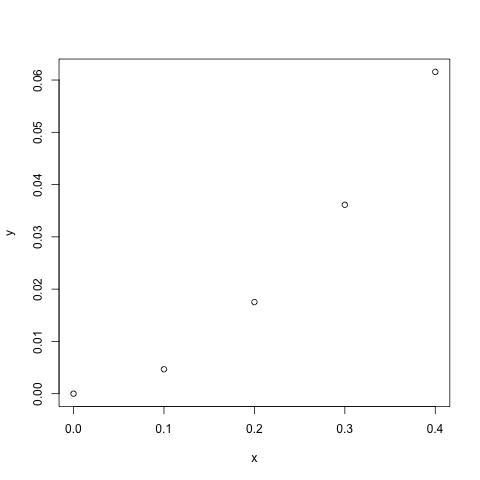
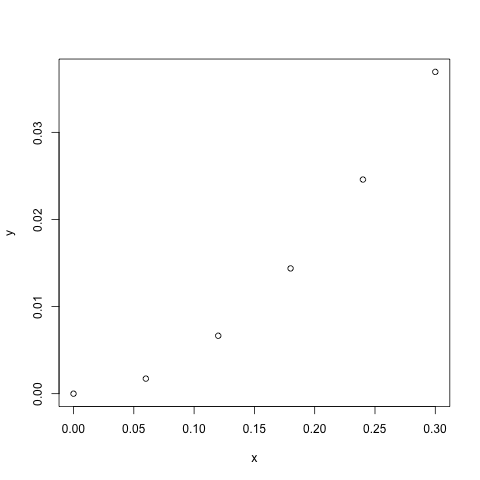
table 3b

diff --git a/Taller[04-04-2018]/3/README.md b/Taller[04-04-2018]/3/README.md
@@ -10,9 +10,21 @@ Suponga que tiene los siguientes datos de la función gamma `F(x,ß,α)`:
 0.3 | 0.03613637
 0.4 | 0.06155193
 
-## a
+## <a name='a'></a>a
 
 Gráfique `F(x,ß,α)` para varios valores de `x Є [0,1]` y con `ß = 1`, `α = 2`.
+
+
+Los valores de gamma a graficar serán los siguientes:
+
+ X   | F(x,ß,α)
+-----|----------
+0    | 0
+0.06 | 0.0017295
+0.12 | 0.0066491
+0.18 | 0.0143811
+0.24 | 0.0245814
+0.30 | 0.0369363
 
 Utilizando los puntos dados se tiene la siguiente gráfica:
 
@@ -21,3 +33,40 @@ Utilizando los puntos dados se tiene la siguiente gráfica:
 ## b
 
 Estime `F(0.25)` utilizando el método de Neville. Utilice 7 cifras de redondeo.
+
+El metodo de Neville propone un método para calcular un nuevo polinomio que pase por puntos dados a partir de polinomios anteriormente calculados evitando un gasto computacional al momento de agregar un nuevo punto.
+
+se propone una función `neville(polynomials,x,y)` el cual recibe una función triangular inferior con los polinomios de neville calculados para ciertos puntos previamente calculados y el nuevo punto en las coordenadas `x` y `y`. 
+
+```R
+neville <- function(polynomials, x, y) {
+	x_ <- Sym('x')
+	if (is.null(polynomials)) {
+		A <- matrix(Sym(0),1,2)
+		m <- 0
+	} else {
+		m <- nrow(polynomials) 
+		A <- matrix(Sym(0), m + 1, m + 2)
+		A[1:m,1:(m+1)] <- polynomials
+	}
+	A[m+1,1] <- Sym(x) 
+	A[m+1,2] <- Sym(y)
+	if (m >= 1)
+	for (i in 3:(m+2)) {
+		A[m+1,i] <- ((x_ - A[m-i+3, 1])*A[m+1,i-1] - (x_ - A[m+1,1])*A[m,i-1]) / (Sym(A[m+1,1]) - Sym(A[m-i+3, 1]))
+	}
+	A
+}
+```
+
+
+La función gamma en los valores de interes es `F(0.25,1,2) =  0.0264990` al generar los polinomios tenemos los siguientes valores con los datos elegidos en el punto [a](#a):
+
+----------
+0.0000000 |			   |			|			 |			  | 
+0.0017295 | 0.00720625 | 			|			 |			  | 
+0.0066491 | 0.01730823 | 0.02825205 |			 |			  | 
+0.0143811 | 0.02340177 | 0.02695633 | 0.02645244 |			  | 
+0.0245814 | 0.02628145 | 0.02652142 | 0.02649726 | 0.02649913 | 
+0.0369363 | 0.02664055 | 0.02649092 | 0.02649940 | 0.02649895 | 0.02649898
+
